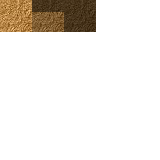
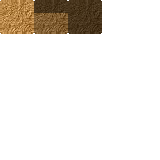
Fixed glitchy lines between lines by adding extra pixel aroung tiles in the tileset. Level.Draw() adjusted to correctly draw new tiles with extra pixel rounding.

diff --git a/Content/SandySet.tsx b/Content/SandySet.tsx
@@ -1,4 +1,4 @@
 <?xml version="1.0" encoding="UTF-8"?>
-<tileset version="1.4" tiledversion="1.4.3" name="SandySet" tilewidth="32" tileheight="32" tilecount="25" columns="5">
+<tileset version="1.8" tiledversion="1.8.0" name="SandySet" tilewidth="32" tileheight="32" spacing="2" margin="1" tilecount="16" columns="4">
  <image source="SandySet.png" width="160" height="160"/>
 </tileset>

diff --git a/Level.cs b/Level.cs
@@ -112,7 +112,7 @@ namespace ProjectQuad
 
 										int r_x = (int)(tileValue - tileset.Value.this_ref.FirstElementId) % tileset.Value.Columns;
 										int r_y = (int)(tileValue - tileset.Value.this_ref.FirstElementId) / tileset.Value.Columns;
-										sourceRect = new Rectangle(r_x * tileset.Value.TileWidth, r_y * tileset.Value.TileHeight, tileset.Value.TileWidth, tileset.Value.TileHeight);
+										sourceRect = new Rectangle(1 + (2 * r_x) + r_x * tileset.Value.TileWidth, 1 + (2 * r_y) +r_y * tileset.Value.TileHeight, tileset.Value.TileWidth, tileset.Value.TileHeight);
 									}
 								}
 
